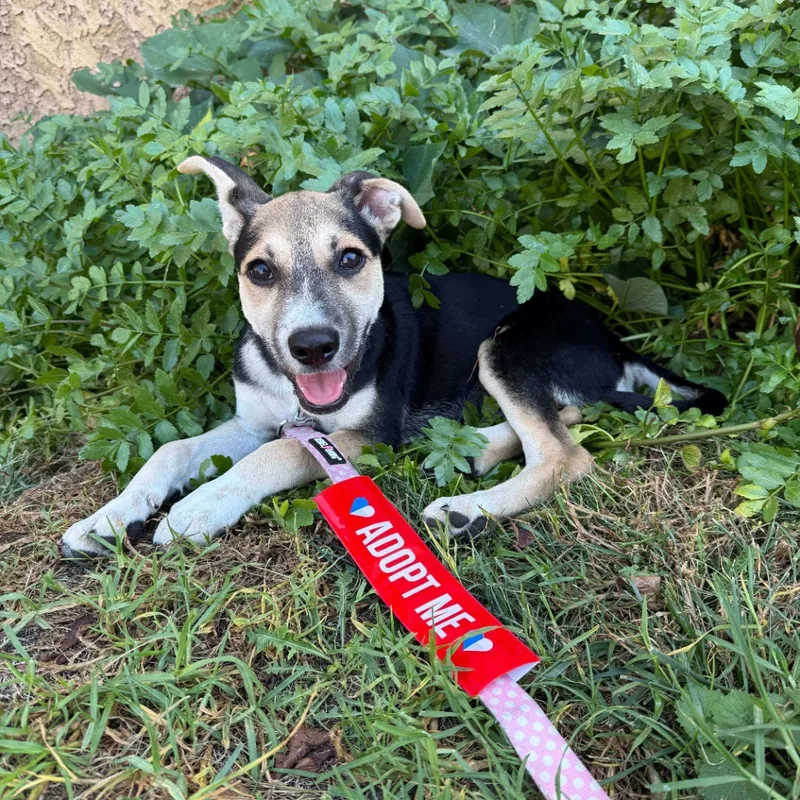
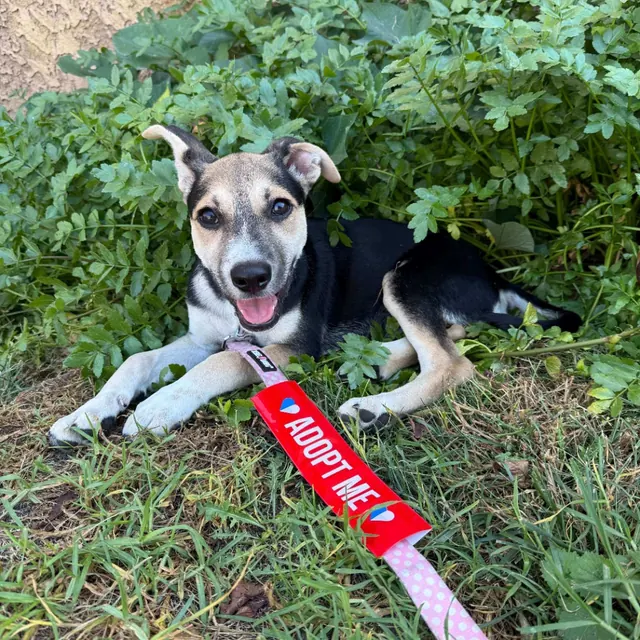
perf(home): add shimmer skeleton placeholders, image fade-in, and optimize hero images

diff --git a/src/components/home/hero-section/HeroSection.vue b/src/components/home/hero-section/HeroSection.vue
@@ -1,10 +1,33 @@
 <script setup lang="ts">
+import { onMounted, ref } from 'vue'
 import { useRouter } from 'vue-router'
 
 import { goToAdopt } from '../../../utils/navigate.ts'
 import Button from '../../common/ui/Button.vue'
 
 const router = useRouter()
+
+const isDogLoaded = ref(false)
+const isCatLoaded = ref(false)
+const dogImgRef = ref<HTMLImageElement | null>(null)
+const catImgRef = ref<HTMLImageElement | null>(null)
+
+function handleDogLoad() {
+  isDogLoaded.value = true
+}
+
+function handleCatLoad() {
+  isCatLoaded.value = true
+}
+
+onMounted(() => {
+  if (dogImgRef.value?.complete) {
+    isDogLoaded.value = true
+  }
+  if (catImgRef.value?.complete) {
+    isCatLoaded.value = true
+  }
+})
 
 function handleAdopt() {
   goToAdopt(router)
@@ -36,30 +59,39 @@ function handleAdopt() {
       <div class="hero-portrait">
         <div class="hero-duo-cards">
           <!-- Primary: Rescued puppy in lush greenery -->
-          <div class="duo-card card-dog">
+          <div class="duo-card card-dog" :class="{ 'is-loaded': isDogLoaded }">
+            <div class="duo-placeholder" aria-hidden="true" />
             <picture>
               <source type="image/webp" srcset="/images/hero-dog.webp" />
               <img
+                ref="dogImgRef"
                 src="/images/hero-dog.jpg"
                 alt="Rescued puppy with Adopt Me collar resting in green grass, ready for adoption"
-                width="800"
-                height="800"
+                width="640"
+                height="640"
                 fetchpriority="high"
+                :class="{ loaded: isDogLoaded }"
+                @load="handleDogLoad"
+                @error="handleDogLoad"
               />
             </picture>
           </div>
 
           <!-- Secondary: Rescued tuxedo cat on purple blanket -->
-          <div class="duo-card card-cat">
+          <div class="duo-card card-cat" :class="{ 'is-loaded': isCatLoaded }">
+            <div class="duo-placeholder" aria-hidden="true" />
             <picture>
               <source type="image/webp" srcset="/images/hero-cat.webp" />
               <img
+                ref="catImgRef"
                 src="/images/hero-cat.jpg"
                 alt="Rescued tuxedo cat with bright yellow eyes on a soft purple mat, ready for adoption"
-                width="600"
-                height="800"
-                loading="lazy"
+                width="576"
+                height="768"
                 decoding="async"
+                :class="{ loaded: isCatLoaded }"
+                @load="handleCatLoad"
+                @error="handleCatLoad"
               />
             </picture>
           </div>
@@ -132,8 +164,31 @@ h1 {
   position: absolute;
   border-radius: var(--radius-xl, 26px);
   overflow: hidden;
-  background: var(--text-inverse);
+  background: var(--color-gray-50, #f8fafc);
   aspect-ratio: 1 / 1;
+
+  .duo-placeholder {
+    position: absolute;
+    inset: 0;
+    z-index: 1;
+    pointer-events: none;
+    border-radius: inherit;
+    background: linear-gradient(
+      110deg,
+      hsl(from var(--color-gray-50) h s 96%) 8%,
+      hsl(from var(--color-gray-50) h s 90%) 18%,
+      hsl(from var(--color-gray-50) h s 96%) 33%
+    );
+    background-size: 200% 100%;
+    animation: duoShimmer 1.4s linear infinite;
+    opacity: 1;
+    transition: opacity 0.35s ease-out, visibility 0.35s;
+  }
+
+  &.is-loaded .duo-placeholder {
+    opacity: 0;
+    visibility: hidden;
+  }
 
   picture {
     display: block;
@@ -146,7 +201,14 @@ h1 {
     height: 100%;
     object-fit: cover;
     display: block;
-    transition: transform 0.6s cubic-bezier(0.2, 0.8, 0.2, 1);
+    opacity: 0;
+    transition:
+      opacity 0.45s cubic-bezier(0.16, 1, 0.3, 1),
+      transform 0.6s cubic-bezier(0.2, 0.8, 0.2, 1);
+
+    &.loaded {
+      opacity: 1;
+    }
   }
 }
 
@@ -197,6 +259,16 @@ h1 {
   }
 }
 
+@keyframes duoShimmer {
+  0% {
+    background-position: 100% 0;
+  }
+
+  100% {
+    background-position: -100% 0;
+  }
+}
+
 @media (prefers-reduced-motion: reduce) {
   .card-dog,
   .card-cat,
@@ -207,6 +279,14 @@ h1 {
   .hero-portrait:hover .card-dog img,
   .hero-portrait:hover .card-cat img {
     transform: none;
+    transition: none;
+  }
+
+  .duo-placeholder {
+    animation: none;
+  }
+
+  .duo-card img {
     transition: none;
   }
 }

diff --git a/src/components/home/mission/Mission.vue b/src/components/home/mission/Mission.vue
@@ -1,4 +1,19 @@
-<script setup lang="ts"></script>
+<script setup lang="ts">
+import { onMounted, ref } from 'vue'
+
+const isLoaded = ref(false)
+const imgRef = ref<HTMLImageElement | null>(null)
+
+function handleLoad() {
+  isLoaded.value = true
+}
+
+onMounted(() => {
+  if (imgRef.value?.complete) {
+    isLoaded.value = true
+  }
+})
+</script>
 
 <template>
   <section class="mission">
@@ -17,16 +32,21 @@
         <li>Adopter education &amp; lifetime support</li>
       </ul>
     </div>
-    <div class="image-container">
+    <div class="image-container" :class="{ 'is-loaded': isLoaded }">
+      <div class="mission-placeholder" aria-hidden="true" />
       <picture>
         <source type="image/webp" srcset="/images/mission-care.webp" />
         <img
+          ref="imgRef"
           src="/images/mission-care.jpg"
           alt="A dedicated rescue caregiver smiling warmly while holding a small rescue dog"
           width="640"
           height="858"
           loading="lazy"
           decoding="async"
+          :class="{ loaded: isLoaded }"
+          @load="handleLoad"
+          @error="handleLoad"
         />
       </picture>
     </div>
@@ -92,13 +112,37 @@
   }
 
   .image-container {
+    position: relative;
     justify-self: end;
     width: min(100%, 360px);
     border-radius: var(--radius-xl, 24px);
     overflow: hidden;
     border: 1.5px solid oklch(from var(--text-inverse) l c h / 35%);
     box-shadow: var(--shadow-xl);
-    background: var(--text-inverse);
+    background: var(--color-gray-50, #f8fafc);
+
+    .mission-placeholder {
+      position: absolute;
+      inset: 0;
+      z-index: 1;
+      pointer-events: none;
+      border-radius: inherit;
+      background: linear-gradient(
+        110deg,
+        hsl(from var(--color-gray-50) h s 96%) 8%,
+        hsl(from var(--color-gray-50) h s 90%) 18%,
+        hsl(from var(--color-gray-50) h s 96%) 33%
+      );
+      background-size: 200% 100%;
+      animation: missionShimmer 1.4s linear infinite;
+      opacity: 1;
+      transition: opacity 0.35s ease-out, visibility 0.35s;
+    }
+
+    &.is-loaded .mission-placeholder {
+      opacity: 0;
+      visibility: hidden;
+    }
 
     picture {
       display: block;
@@ -112,11 +156,38 @@
       aspect-ratio: 3 / 4;
       object-fit: cover;
       display: block;
-      transition: transform 0.4s ease;
+      opacity: 0;
+      transition:
+        opacity 0.4s ease-out,
+        transform 0.4s ease;
+
+      &.loaded {
+        opacity: 1;
+      }
     }
 
     &:hover img {
       transform: scale(1.03);
+    }
+  }
+
+  @keyframes missionShimmer {
+    0% {
+      background-position: 100% 0;
+    }
+
+    100% {
+      background-position: -100% 0;
+    }
+  }
+
+  @media (prefers-reduced-motion: reduce) {
+    .mission-placeholder {
+      animation: none;
+    }
+
+    .image-container img {
+      transition: none;
     }
   }
 

diff --git a/src/components/home/hero-section/__tests__/HeroSection.spec.ts b/src/components/home/hero-section/__tests__/HeroSection.spec.ts
@@ -46,4 +46,35 @@ describe('HeroSection.vue', () => {
 
     expect(wrapper.find('.sticker').exists()).toBe(false)
   })
+
+  it('renders placeholders and transitions to loaded when images fire load events', async () => {
+    const wrapper = mount(HeroSection, {
+      global: {
+        stubs: {
+          Button: true,
+        },
+      },
+    })
+
+    const dogCard = wrapper.find('.card-dog')
+    const catCard = wrapper.find('.card-cat')
+    const dogImg = wrapper.find('.card-dog img')
+    const catImg = wrapper.find('.card-cat img')
+
+    // Initial state: placeholders present and loaded class not yet on img
+    expect(dogCard.find('.duo-placeholder').exists()).toBe(true)
+    expect(catCard.find('.duo-placeholder').exists()).toBe(true)
+    expect(dogCard.classes()).not.toContain('is-loaded')
+    expect(dogImg.classes()).not.toContain('loaded')
+
+    // Trigger dog load
+    await dogImg.trigger('load')
+    expect(dogCard.classes()).toContain('is-loaded')
+    expect(dogImg.classes()).toContain('loaded')
+
+    // Trigger cat load
+    await catImg.trigger('load')
+    expect(catCard.classes()).toContain('is-loaded')
+    expect(catImg.classes()).toContain('loaded')
+  })
 })
